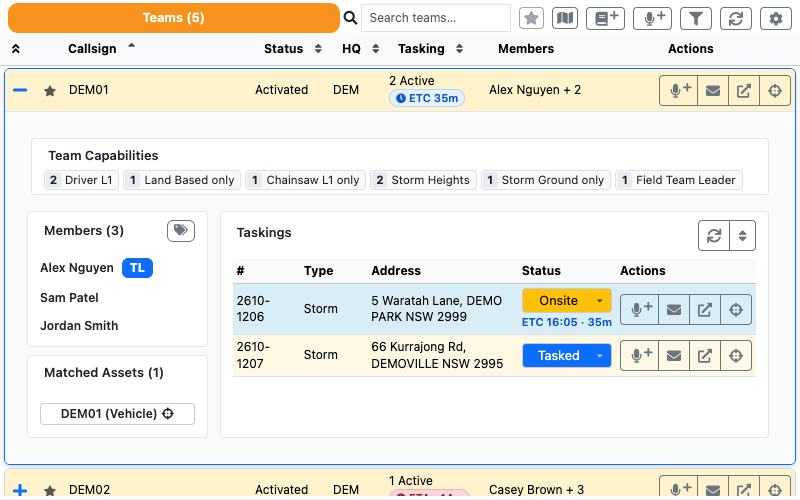
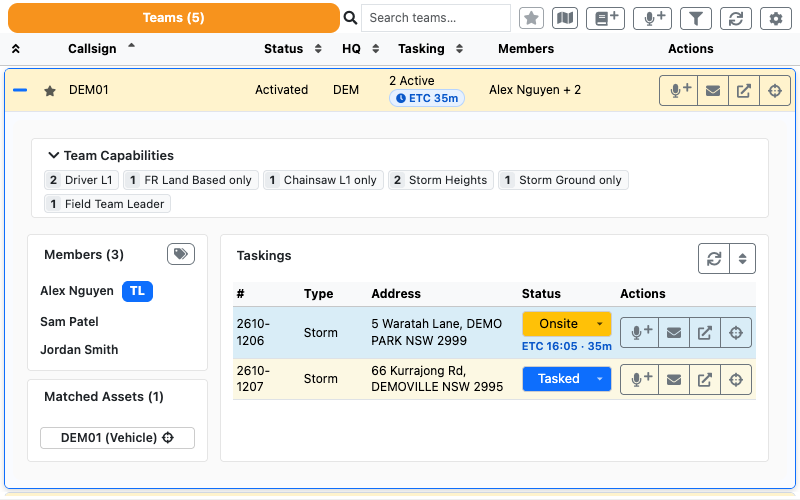
Prefix flood rescue capabilities with FR
FR Land Based, FR On Water and FR In Water, so the flood levels read as
flood rescue in the Team Capabilities box.

diff --git a/src/pages/tasking/utils/teamCapabilities.js b/src/pages/tasking/utils/teamCapabilities.js
@@ -14,9 +14,9 @@ const CAPABILITIES = [
     { code: 'DRL3-ACC', label: 'Driver L3' },
     { code: 'DRL2-ACC', label: 'Driver L2', supersededBy: ['DRL3-ACC'], plainLabel: true },
     { code: 'DRL1-ACC', label: 'Driver L1', supersededBy: ['DRL2-ACC', 'DRL3-ACC'], plainLabel: true },
-    { code: 'FRL3-ACC', label: 'In Water' },
-    { code: 'FRL2-ACC', label: 'On Water' },
-    { code: 'FRL1-ACC', label: 'Land Based', supersededBy: ['FRL2-ACC', 'FRL3-ACC'] },
+    { code: 'FRL3-ACC', label: 'FR In Water' },
+    { code: 'FRL2-ACC', label: 'FR On Water' },
+    { code: 'FRL1-ACC', label: 'FR Land Based', supersededBy: ['FRL2-ACC', 'FRL3-ACC'] },
     { code: 'CL2-ACC', label: 'Chainsaw L2' },
     { code: 'CL1-ACC', label: 'Chainsaw L1', supersededBy: ['CL2-ACC'] },
     { code: 'SWDH-ACC', label: 'Storm Heights' },

diff --git a/docs/lad/team-register.md b/docs/lad/team-register.md
@@ -75,7 +75,7 @@ Show or hide member capabilities with the tags icon to the right of the **Member
 
 The **Team Capabilities** box across the top of the expanded view counts how many of the team's members hold each capability, such as **2 Storm Heights**, so you can see what a team can do without opening each member. Each member is counted at their highest level. A count labelled **only**, such as **1 Storm Ground only**, is the members at just that level, so anyone with Storm Heights isn't included in it even if they also hold Storm Ground.
 
-This applies to Storm Ground and Heights, Chainsaw L1 and L2, Land Based and On Water or In Water, Boat Operator and On Water, High Clearance Vehicle levels, Driver levels, Job Ready, Field Foundations and Field Operator, and the Beacon access levels. Anyone with a technical capability, such as a storm, chainsaw, rescue or land search accreditation, isn't counted under Field Operator, Field Foundations or Job Ready. Driver levels are also counted at the highest level, but aren't labelled **only**. All other capabilities are counted separately, including On Water and In Water.
+This applies to Storm Ground and Heights, Chainsaw L1 and L2, FR Land Based and FR On Water or FR In Water, Boat Operator and FR On Water, High Clearance Vehicle levels, Driver levels, Job Ready, Field Foundations and Field Operator, and the Beacon access levels. Anyone with a technical capability, such as a storm, chainsaw, rescue or land search accreditation, isn't counted under Field Operator, Field Foundations or Job Ready. Driver levels are also counted at the highest level, but aren't labelled **only**. All other capabilities are counted separately, including FR On Water and FR In Water.
 
 Click **Team Capabilities** to collapse the box, and again to open it. LAD remembers your choice for every team, including after a reload.
 
